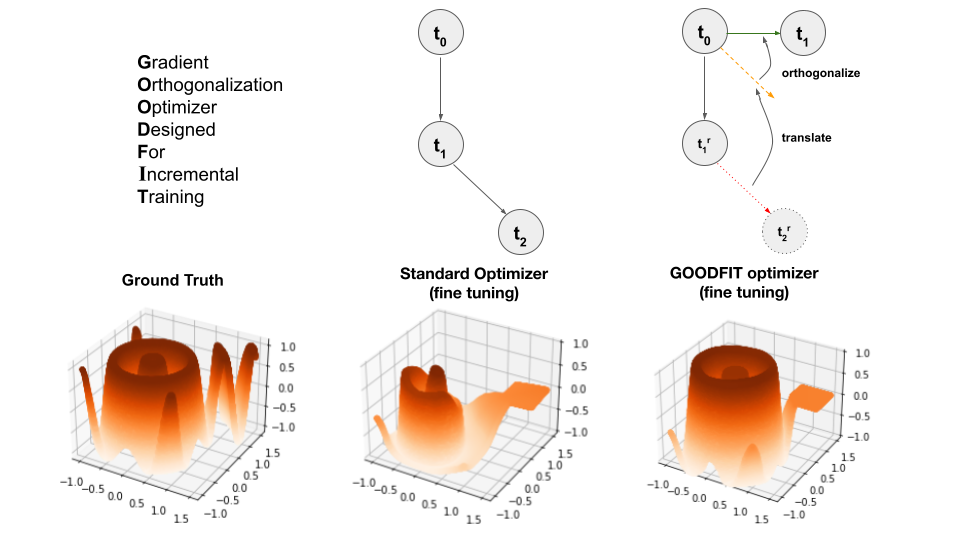
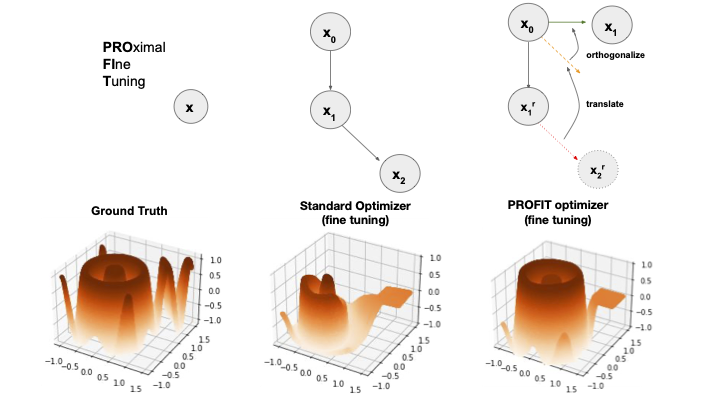
update profit

diff --git a/index.html b/index.html
@@ -26,7 +26,7 @@
                 <name>Anirudh S Chakravarthy</name>
               </p>
               <p> 
-                I'm a Machine Learning Engineer at <a href="https://www.getcruise.com">Cruise</a>, working on multi-task learning and large models for long-tail recognition in autonomous driving.
+                I'm a Senior Machine Learning Engineer at <a href="https://www.getcruise.com">Cruise</a>, working on multi-task learning and large models for long-tail recognition in autonomous driving.
                 I graduated with my Master of Science in Computer Vision (MSCV) at the <a href="https://www.ri.cmu.edu/">Robotics Institute</a>, <a href="https://www.cmu.edu/">Carnegie Mellon University</a> (CMU), where I was advised by <a href="http://www.cs.cmu.edu/~deva/">Prof. Deva Ramanan</a>. 
                 My research at CMU focused on extending panoptic segmentation into the open world and discovering novel objects without explicit supervision.
               </p>
@@ -167,7 +167,7 @@
               
               <p></p>
               <p>
-               We introduce a new problem setting, Lidar Panoptic Segmentation in an Open World (LiPSOW). We also establish evaluation protocols to evaluate methods under LiPSOW. We propose our method, Hierarchical LiDAR Panoptic Segmentation (HLPS), which combines geometric clustering and lidar semantic segmentation to achieve strong performance on LiPSOW.
+               Current Lidar Panoptic Segmentation (LPS) methods make an unrealistic assumption that the semantic class vocabulary is fixed in the real world, but in fact, class ontologies usually evolve over time as robots encounter instances of novel classes. To address this unrealistic assumption, we study LPS in the Open World (LiPSOW).
             </p>
           </td>
         </tr>
@@ -196,18 +196,19 @@
               </a>
               <br>
               <strong>Anirudh Chakravarthy</strong>,
-              <a href="https://kylezheng.org/">Shuai Zheng</a>,
+              <a href="https://kylezheng.org/">Shuai Kyle Zheng</a>,
               Xin Huang, 
               <a href="https://people.csail.mit.edu/sachih/home/">Sachithra Hemachandra</a>, 
               Yuning Chai, 
               Zhao Chen
               <br>
-              <em>Under Review at ECCV</em>, 2024
+              <em>Under Review at CVPR</em>, 2025
               <br>
+              <a href="https://arxiv.org/pdf/2412.01930">[arxiv]</a>
               
               <p></p>
               <p>
-               We present PROFIT, one of the first optimizers that has been specifically designed to operate on converged models that need to be incrementally fine-tuned on a new task/dataset. Unlike standard optimizers like SGD or Adam, which operate with minimal assumptions since the model weights might be randomly initialized, PROFIT takes advantage of the additional structure of a converged model to regularize the optimization process for better results.
+              Fine-tuning pre-trained models has become invaluable in computer vision and robotics. We present PROFIT, one of the first optimizers specifically designed for incrementally fine-tuning converged models on new tasks or datasets.
             </p>
           </td>
         </tr>
@@ -636,6 +637,7 @@
 					
           <tr>
             <td>
+              <strong>[Sept 2024]</strong> Our work on Lidar Panoptic Segmentation in an Open World is accepted into IJCV 2024!<br>
               <strong>[Feb 2023]</strong> I joined <a href="https://www.getcruise.com/">Cruise</a> full-time!<br>
               <strong>[Dec 2022]</strong> I graduated from <a href="https://www.cmu.edu/">Carnegie Mellon University </a> with a Masters in Computer Vision!<br>
               <strong>[May 2022]</strong> I'll be joining <a href="https://www.getcruise.com/">Cruise</a> over the summer.<br>
